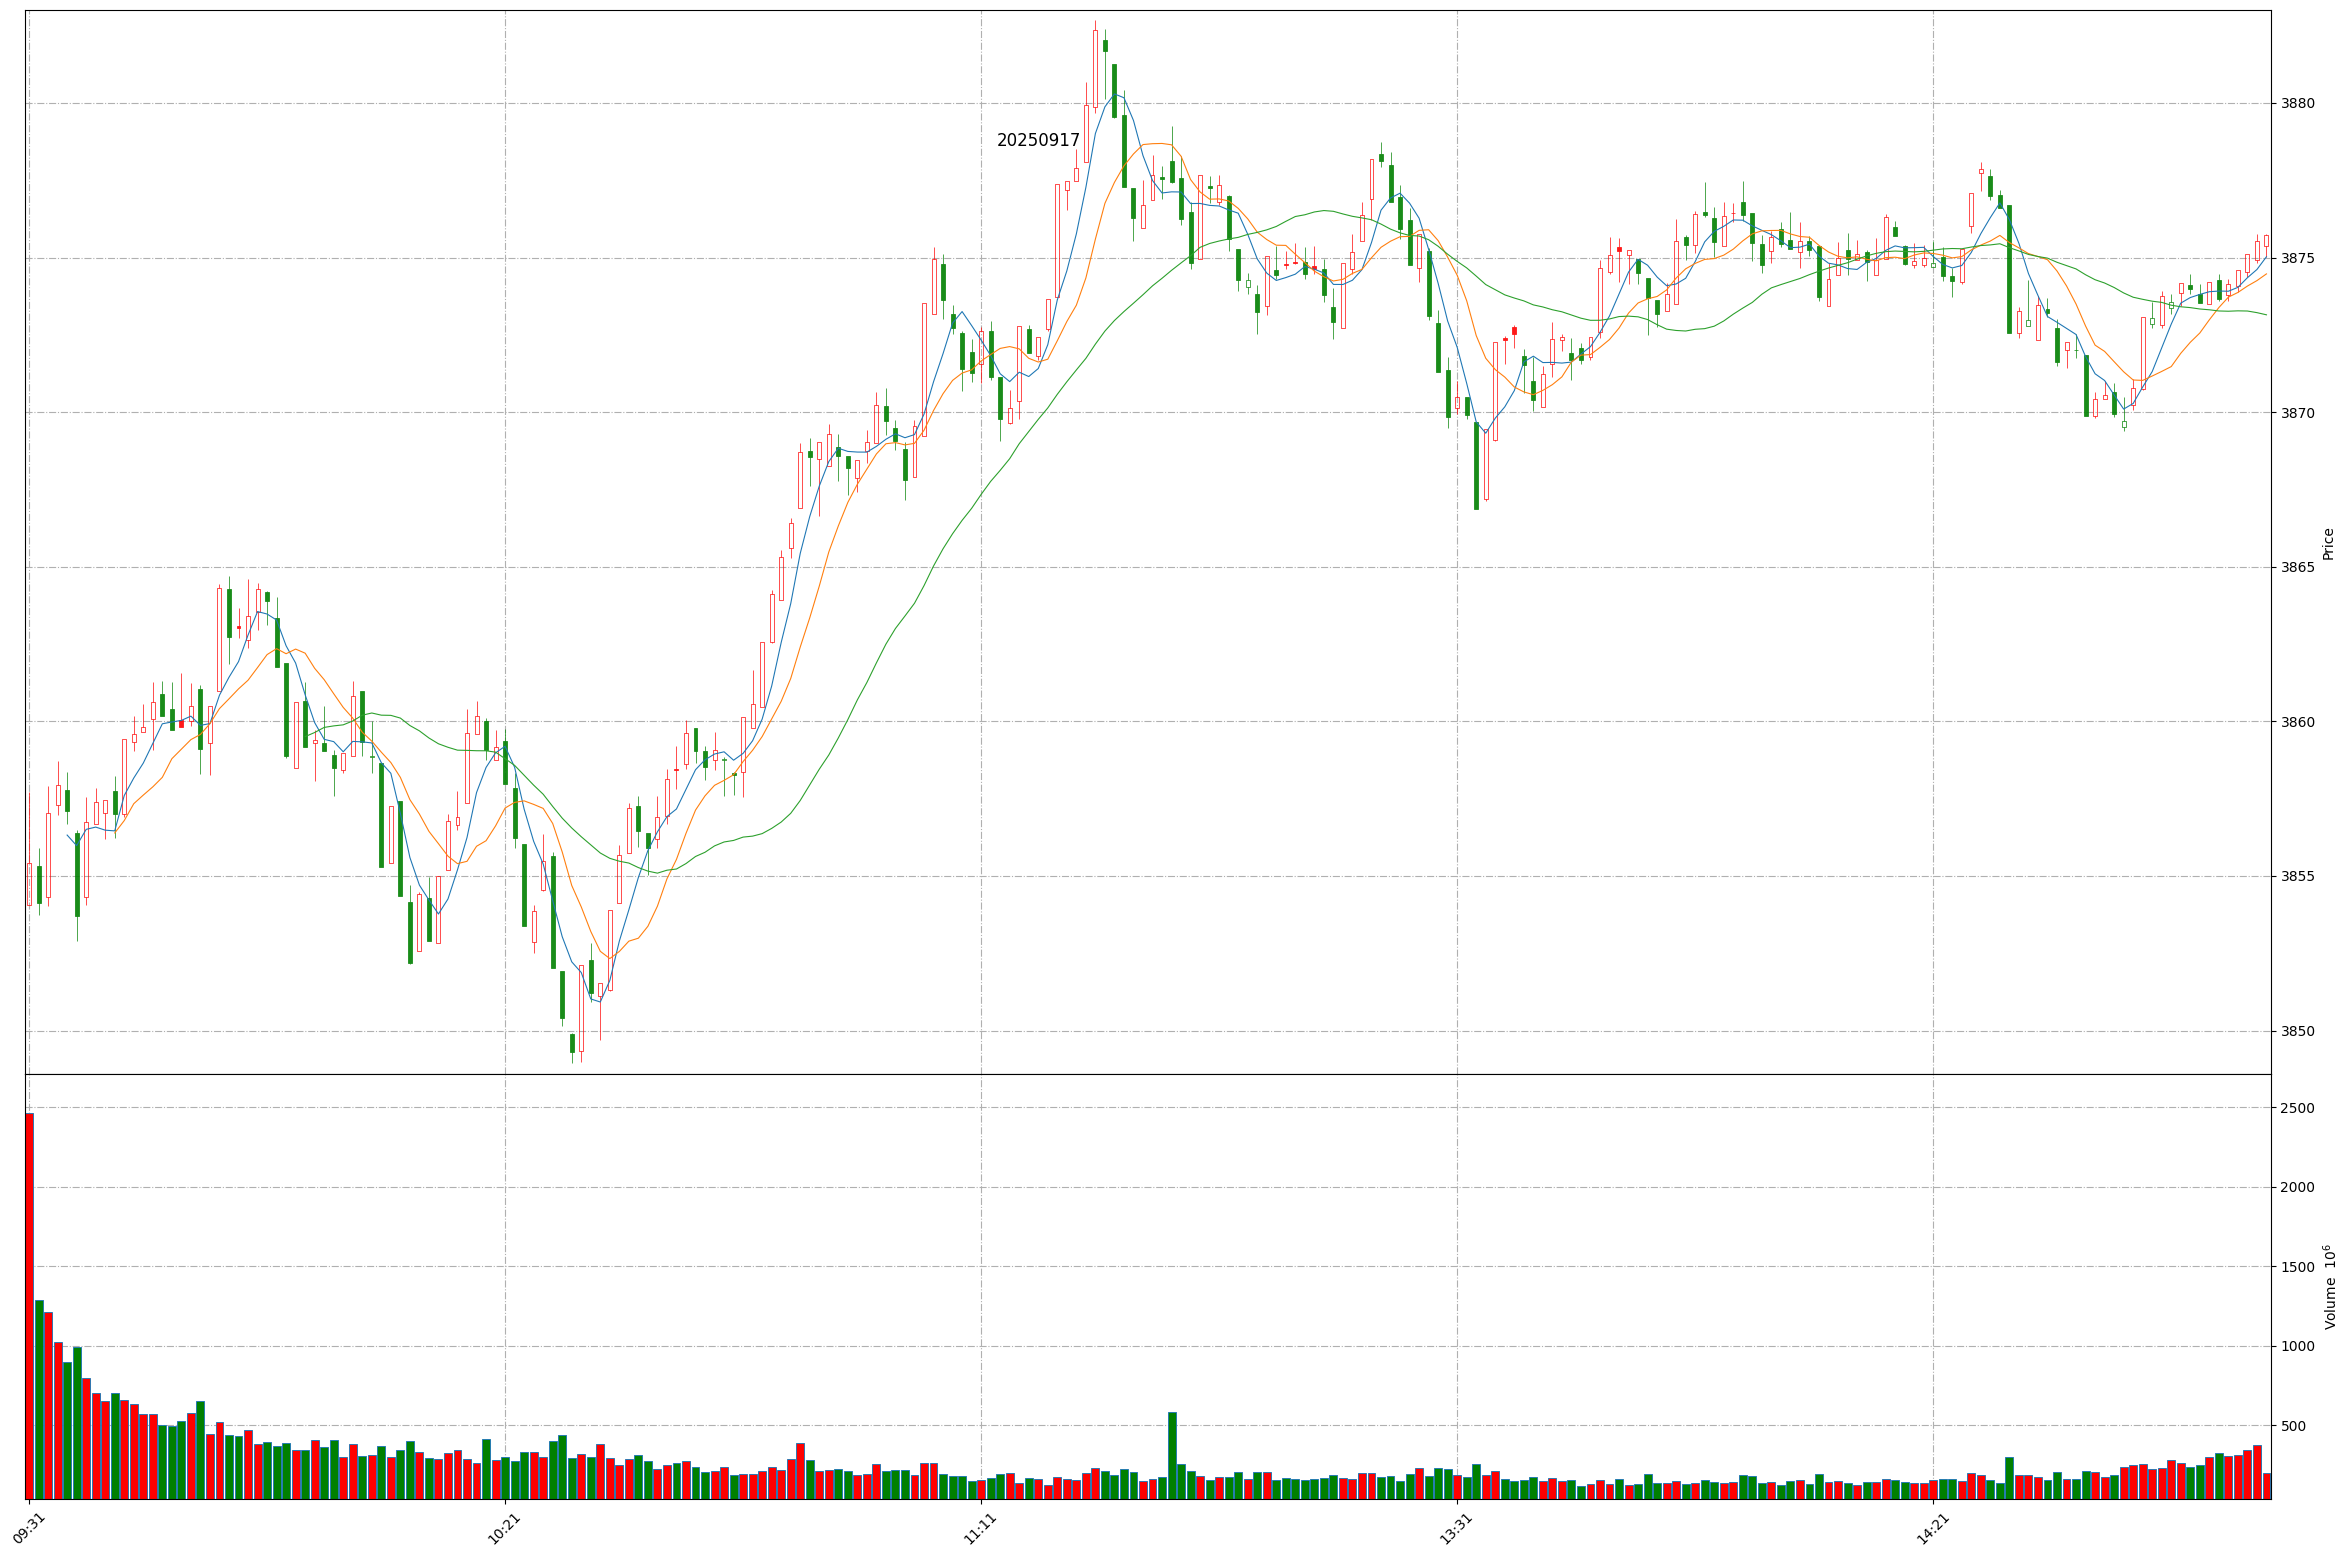
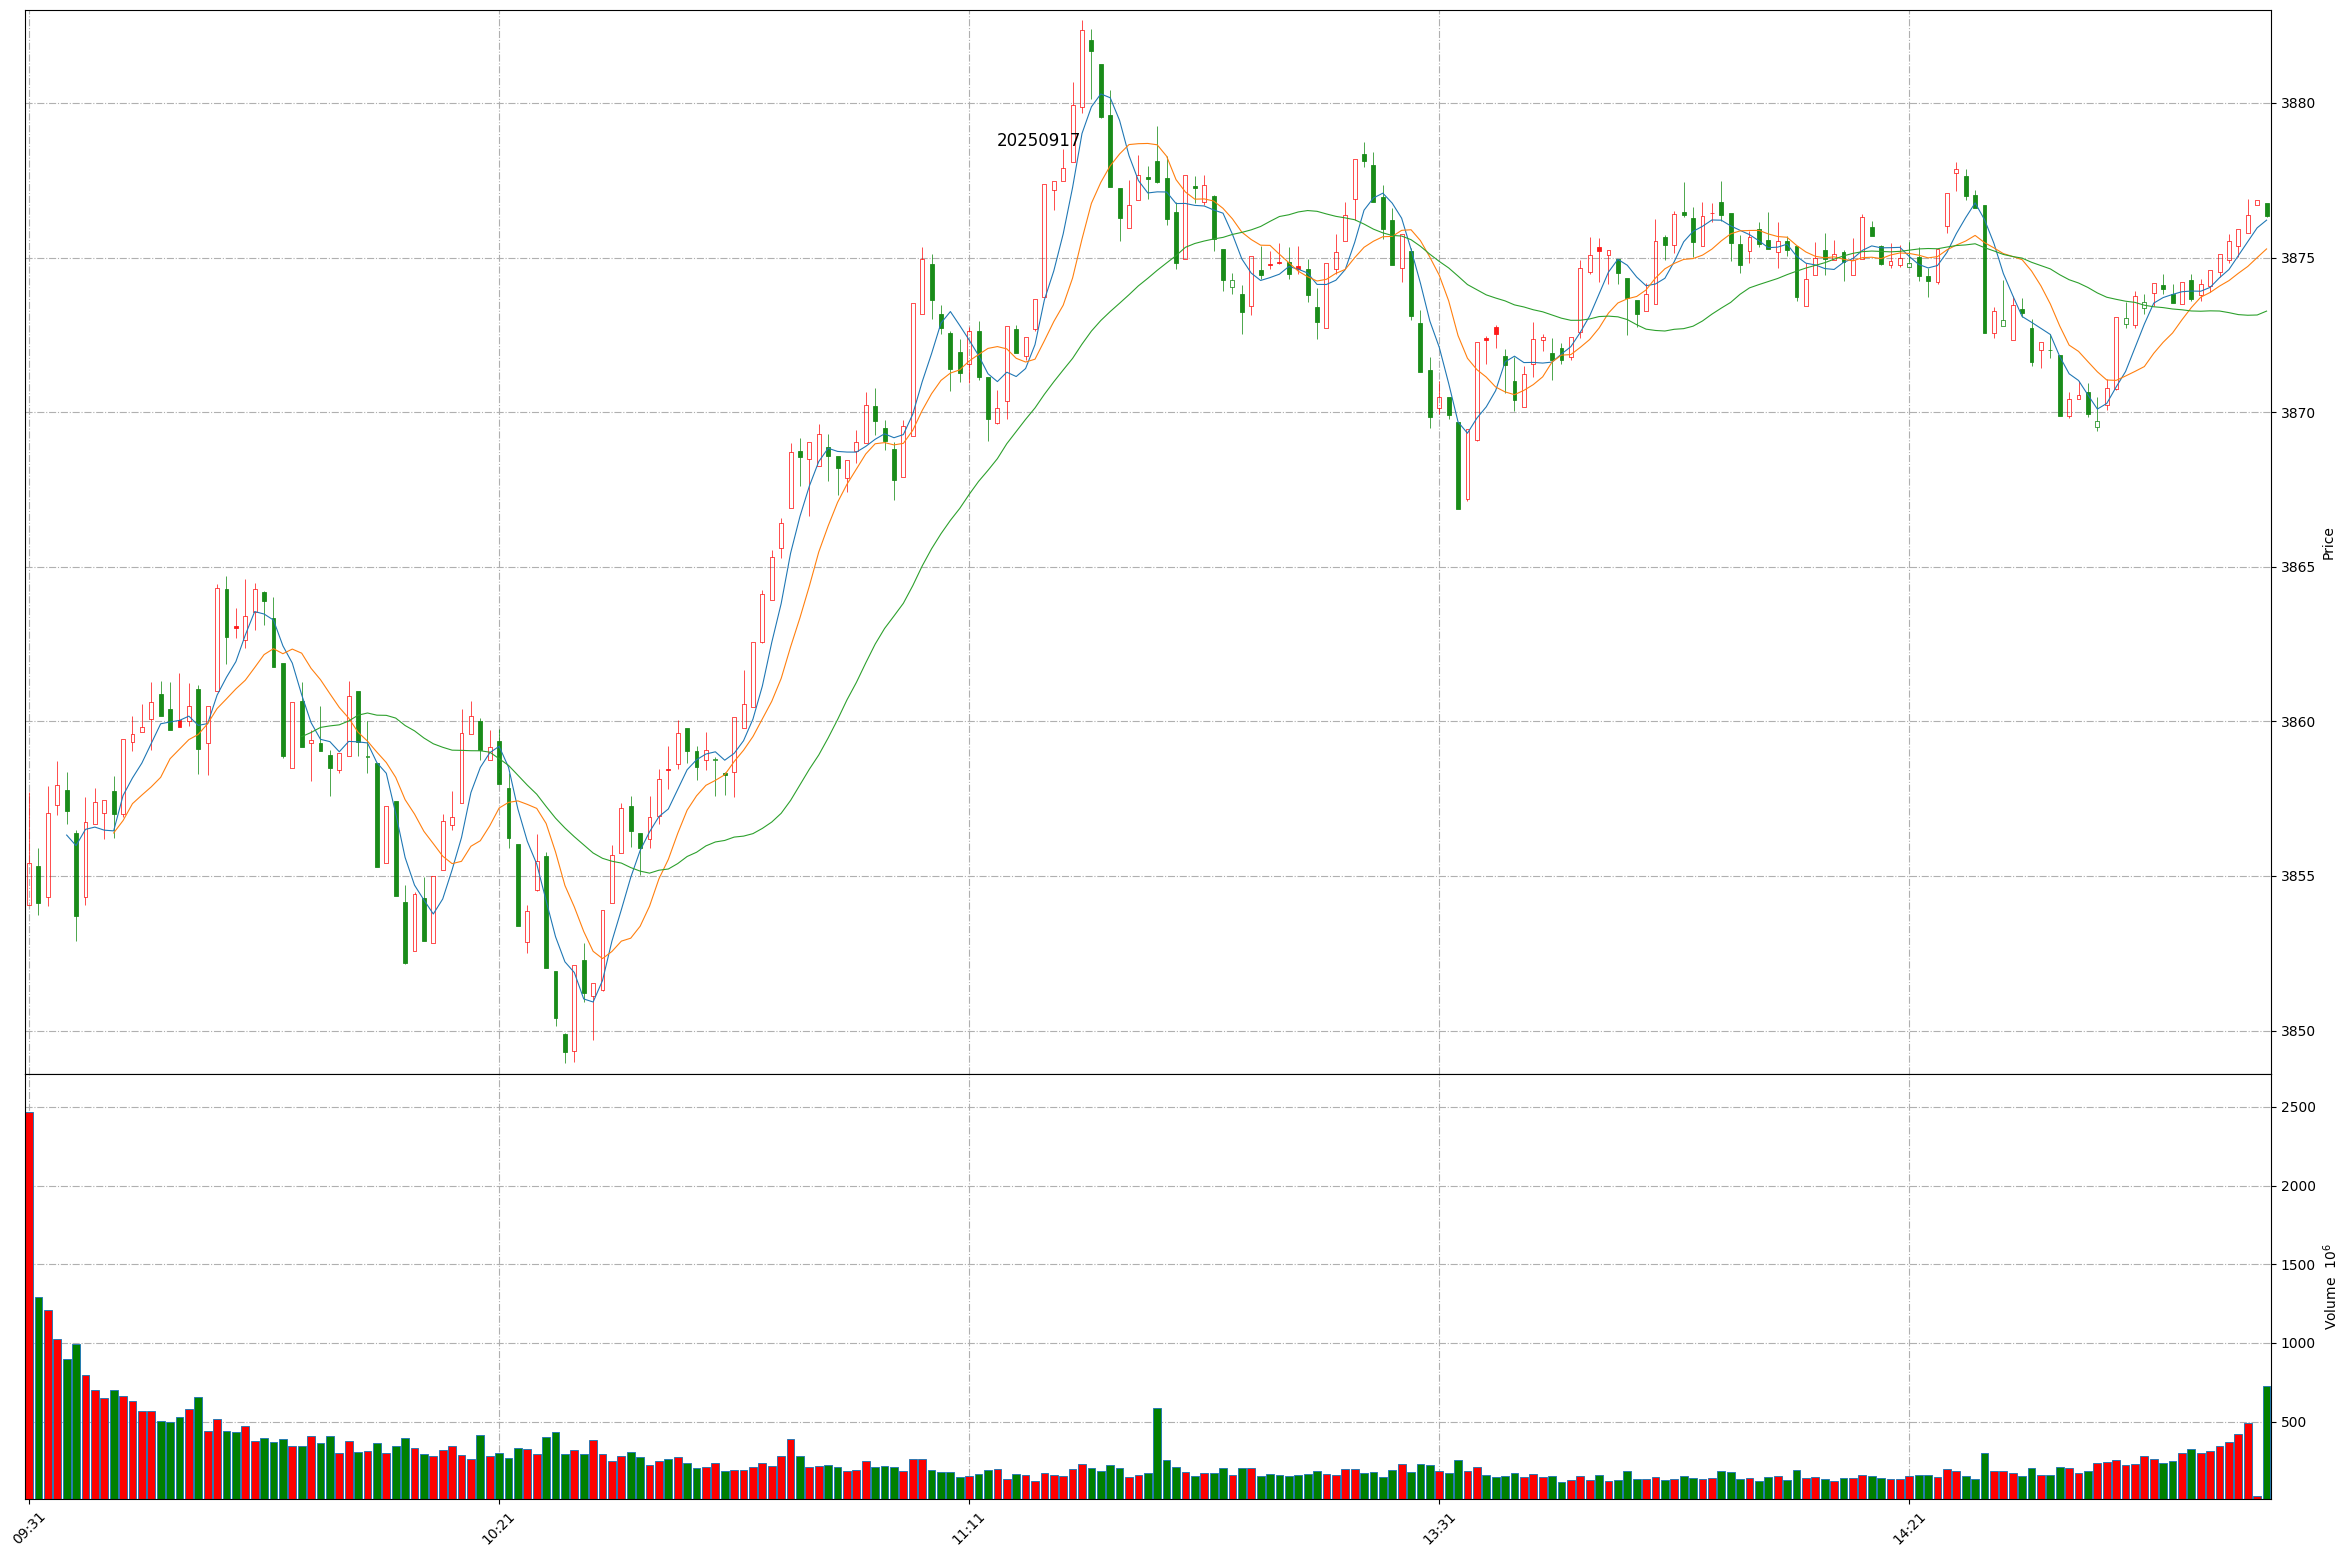
Github action update at 2025-09-17 15:13:12.

diff --git a/README.md b/README.md
@@ -1,11 +1,11 @@
 
 # Daily-A-share-market-quotes 每日 A 股指数（5min 更新）- 20250917
 
-### 上证指数 20250917 14:55
+### 上证指数 20250917 15:13
 ![](./fig/2025/9/20250917-sh000001.png)
 
-### 深证成指 20250917 14:55
+### 深证成指 20250917 15:13
 ![](./fig/2025/9/20250917-sz399001.png)
 
-### 北证50 20250917 14:55
+### 北证50 20250917 15:13
 ![](./fig/2025/9/20250917-bj899050.png)
